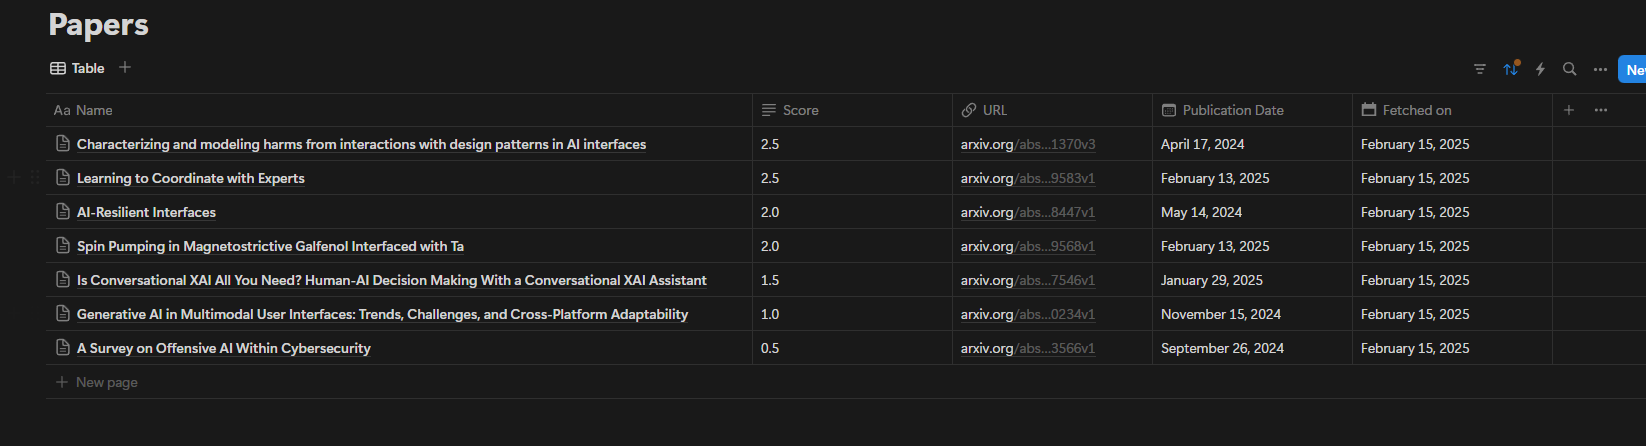
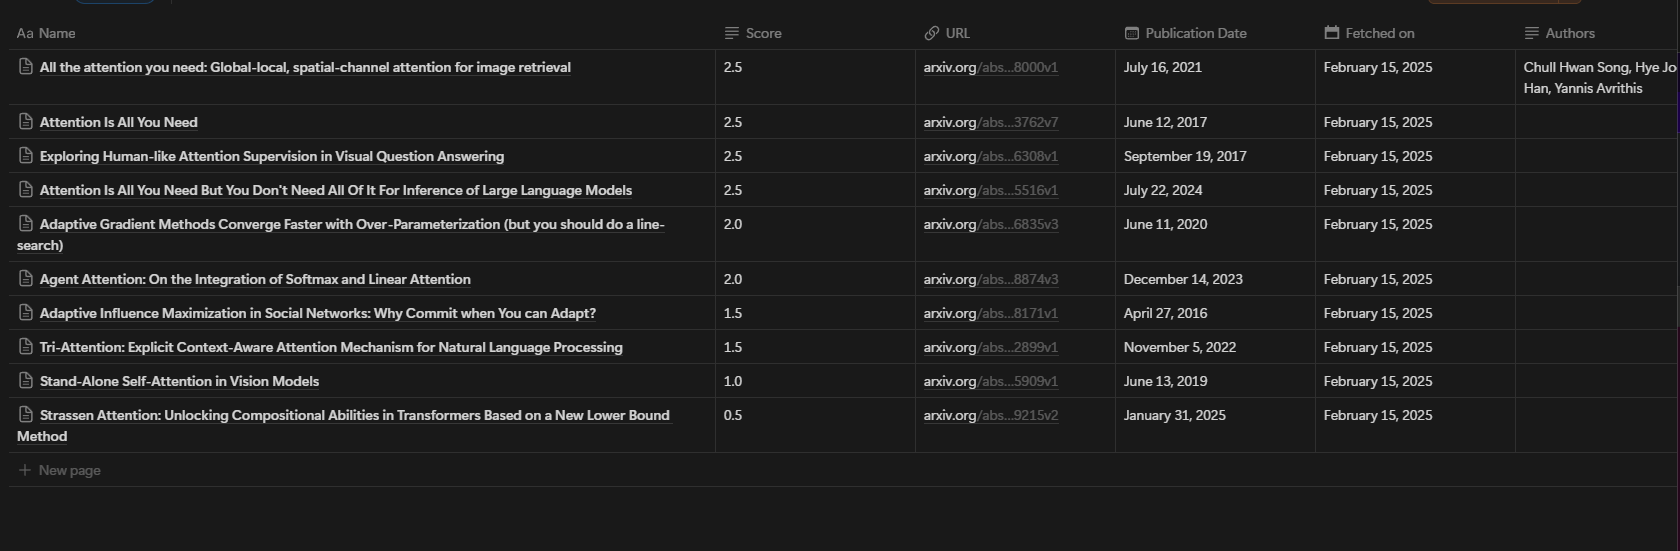
added authors

diff --git a/app.py b/app.py
@@ -207,7 +207,7 @@ def summarize_text(text, style="normal"):
 
 import datetime
 
-def send_to_notion(title, url, pub_date, summary_normal, summary_thrilling, score):
+def send_to_notion(title, url, authors, pub_date, summary_normal, summary_thrilling, score):
     children = [{
         "object": "block",
         "type": "paragraph",
@@ -232,6 +232,7 @@ def send_to_notion(title, url, pub_date, summary_normal, summary_thrilling, scor
     if notion_database_id_input:
         parent = {"database_id": notion_database_id_input}
         properties["URL"] = {"url": url}
+        properties["Authors"] = {"rich_text": [{"text": {"content": str(authors)}}]}
         properties["Score"] = {"rich_text": [{"text": {"content": str(score)}}]}
         properties["Publication Date"] = {"date": {"start": pub_date}}
         current_dt = datetime.datetime.now().strftime("%Y-%m-%d")
@@ -252,6 +253,7 @@ def main(query, max_results, fetch_limit):
     st.write(f"Found {total} papers.")
     for rank, paper in enumerate(papers):
         arxiv_id = paper.entry_id.split("/")[-1]
+        authors = ", ".join(str(author.name) for author in paper.authors)  # ✅ Fixed author extraction
         abstract = paper.summary
         title = paper.title
         url = paper.entry_id
@@ -260,7 +262,7 @@ def main(query, max_results, fetch_limit):
         st.write(f"Summarizing: {title} (Score: {score})")
         summary_normal = summarize_text(abstract, style=style_normal_input)
         summary_thrilling = summarize_text(abstract, style=style_thrilling_input)
-        page_id = send_to_notion(title, url, pub_date, summary_normal, summary_thrilling, score)
+        page_id = send_to_notion(title, url, authors, pub_date, summary_normal, summary_thrilling, score)
         if page_id:
             st.write(f"Created Notion page with ID: {page_id}")
         else:
